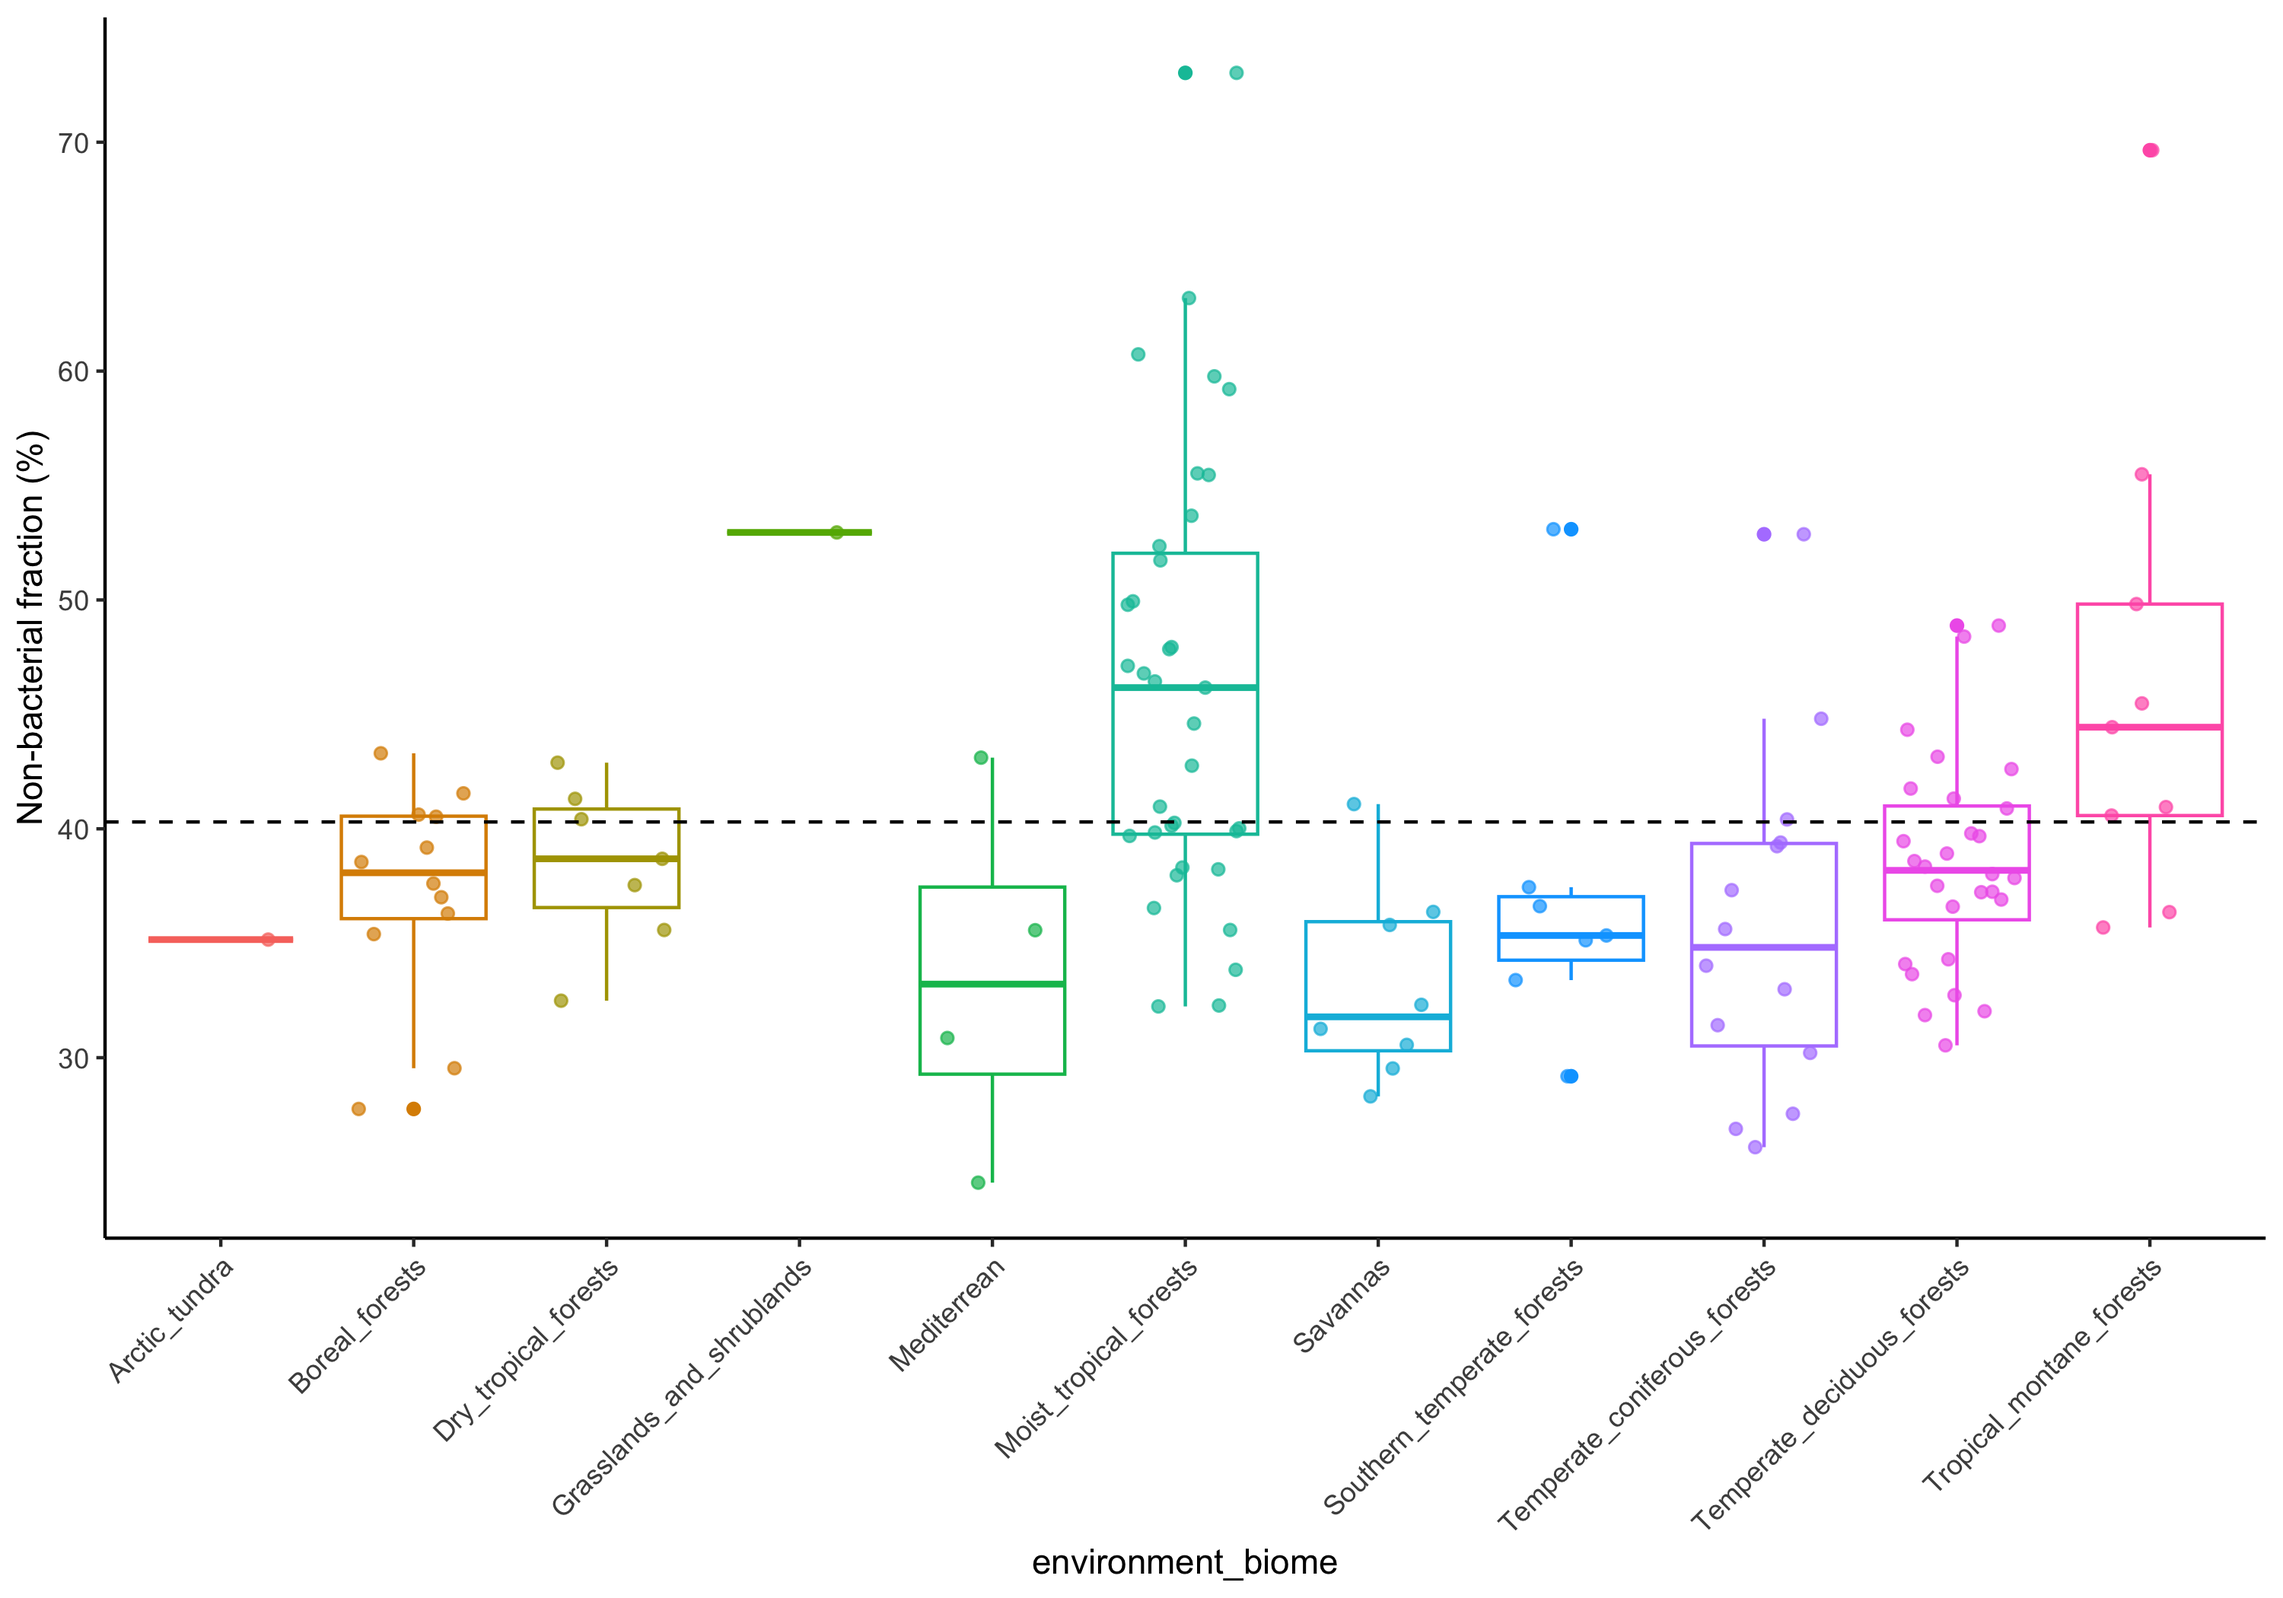
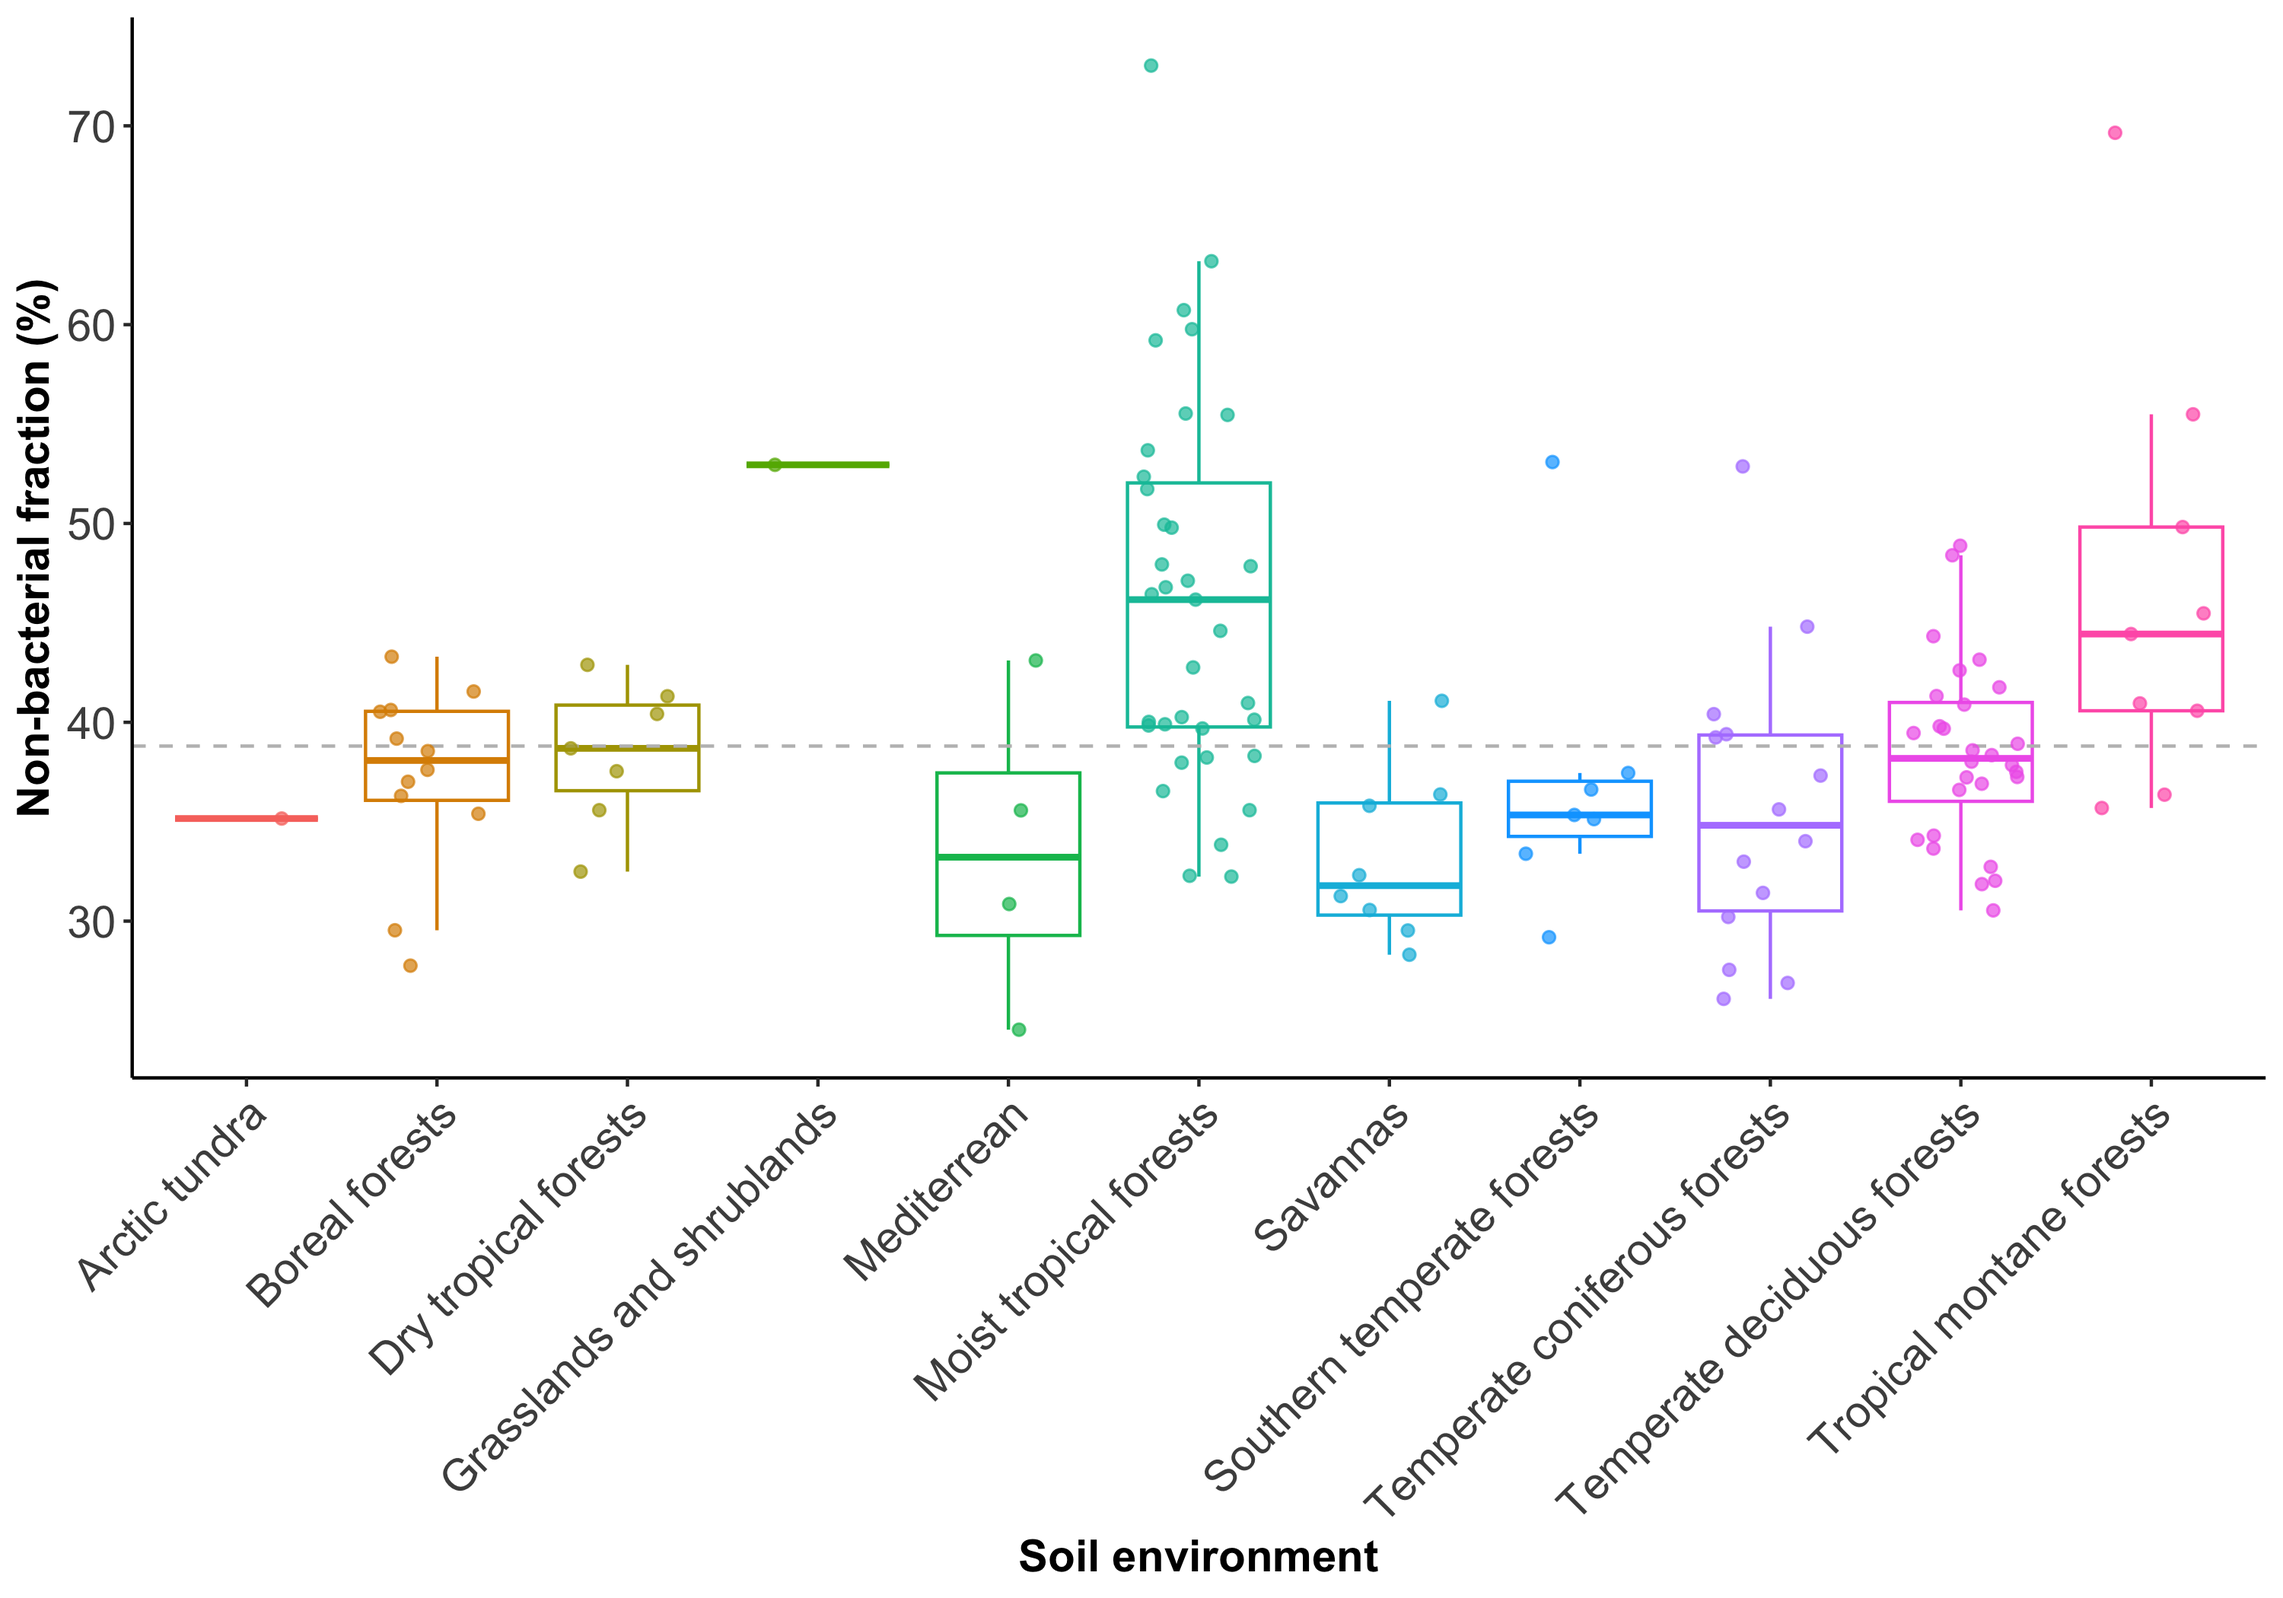
update, clean

diff --git a/code.md b/code.md
@@ -1,4 +1,4 @@
-# Re-analysis of soil replies with SMF values
+# 2024 reply to Osmund et al. and Piton et al.
 Raphael Eisenhofer
 
 ### Import and clean data
@@ -6,6 +6,7 @@ Raphael Eisenhofer
 ``` r
 library(tidyverse)
 library(janitor)
+library(patchwork)
 
 pooled_smf <- read_delim("data/smf.csv")
 md <- read_delim("data/metadata.tsv") %>%
@@ -46,25 +47,36 @@ Let’s now use our SMF (**S**ingleM **M**icrobial **F**raction) estimates
 to check how much non-bacterial DNA there is in these samples:
 
 ``` r
-df %>%
+set.seed(1337)
+
+fig1a <- df %>%
+  mutate(environment_biome = str_replace_all(environment_biome,
+                                             "_", " ")) %>%
   ggplot(aes(x = environment_biome, y = (100 - read_fraction), 
              colour = environment_biome)) +
-  geom_boxplot() +
+  geom_boxplot(outlier.alpha = 0) +
+  geom_hline(yintercept = (100 - median(df$read_fraction)),
+             linetype = 2, colour = "grey") +
   geom_jitter(height = 0, width = 0.3, alpha = 0.7) +
-  geom_hline(yintercept = (100 - mean(df$read_fraction)),
-             linetype = 2) +
   theme_classic() +
   theme(
     legend.position = "none",
-    axis.text.x = element_text(angle = 45, hjust = 1)
+    axis.text.x = element_text(size = 14,
+                               angle = 45, 
+                               hjust = 1),
+    axis.text.y = element_text(size = 14),
+    axis.title = element_text(size = 14, face = "bold")
         ) +
-  ylab("Non-bacterial fraction (%)")
+  ylab("Non-bacterial fraction (%)") +
+  xlab("Soil environment")
+  
+fig1a
 ```
 
 ![](code_files/figure-commonmark/unnamed-chunk-2-1.png)
 
 OK, so the assertion that 4-9% of the base pairs are eukaryotic is a
-severe underestimate! 10.1- to 4.5 -fold understimations to be precise.
+severe underestimate! 9.7- to 4.3 -fold understimations to be precise.
 
 It’s also interesting that we do see variation in non-bacterial read
 fractions between soil environmental biomes.
@@ -105,10 +117,11 @@ Let’s see where SMF’s AGS estimates lie between Piton et al. and Osmund
 et al.s’:
 
 ``` r
-SMF_AGS <- as.numeric(scales::number(mean(df$average_bacterial_archaeal_genome_size) / 1000000, accuracy = 0.1))
+SMF_AGS <- as.numeric(scales::number(mean(df$average_bacterial_archaeal_genome_size) / 1000000, accuracy = 0.1))  
 
-AGS_overestimate_fold <- as.numeric(scales::number(6.8 / SMF_AGS, accuracy = 0.01))
-AGS_overestimate_pc <- (1 - as.numeric(scales::number(SMF_AGS / 6.8, accuracy = 0.001))) * 100
+AGS_overestimate_fold <- as.numeric(scales::number(6.8 / SMF_AGS, accuracy = 0.01)) 
+
+AGS_overestimate_pc <- (1 - as.numeric(scales::number(SMF_AGS / 6.8, accuracy = 0.001))) * 100 
 ```
 
 So SMF’s AGS estimate 4.7 Mbp is between Osmund et al.’s 3 Mbp and Piton
@@ -127,12 +140,62 @@ point:
 > non-bacterial DNA.”
 
 ``` r
-df %>%
-  ggplot(aes(x = soilp_h, y = average_bacterial_archaeal_genome_size / 1000000)) +
-  geom_smooth(method = "lm") +
+#First, recrete with Piton et al.'s original AGS values
+
+# lm_piton <- lm(average_genome_size_bp ~ soilp_h, df)
+# shapiro.test(residuals(lm_piton))
+# 
+# summary(lm_piton)
+
+
+glm_piton <- glm(average_genome_size_bp ~ soilp_h, 
+                 df, family = Gamma)
+
+summary(glm_piton)
+```
+
+
+    Call:
+    glm(formula = average_genome_size_bp ~ soilp_h, family = Gamma, 
+        data = df)
+
+    Coefficients:
+                 Estimate Std. Error t value Pr(>|t|)    
+    (Intercept) 1.018e-07  5.709e-09  17.824  < 2e-16 ***
+    soilp_h     7.724e-09  1.046e-09   7.381 1.98e-11 ***
+    ---
+    Signif. codes:  0 '***' 0.001 '**' 0.01 '*' 0.05 '.' 0.1 ' ' 1
+
+    (Dispersion parameter for Gamma family taken to be 0.01335263)
+
+        Null deviance: 2.2440  on 125  degrees of freedom
+    Residual deviance: 1.5254  on 124  degrees of freedom
+    AIC: 3776.5
+
+    Number of Fisher Scoring iterations: 4
+
+``` r
+#R squared
+r_piton <- paste0("~italic(R^2)", " == ", scales::number(with(summary(glm_piton), 1 - deviance/null.deviance), accuracy = 0.0001))
+
+
+fig1b <- df %>%
+  ggplot(aes(x = soilp_h, y = average_genome_size_bp / 1e6)) +
+  geom_smooth(method = "glm") +
   geom_point(aes(colour = environment_biome)) +
+  annotate("text", x = 3.5, y = 5.5, label = r_piton, 
+           parse = TRUE, size = 6) +
   theme_classic() +
-  labs(x = "Soil pH", y = "SingleM Average Genome Size (Mbp)")
+  theme(
+    legend.position = "none",
+    axis.text = element_text(size = 14),
+    axis.title = element_text(size = 14, face = "bold")
+        ) +
+  labs(x = "Soil pH", y = "Piton et al. Average Genome Size (Mbp)")
+
+
+
+fig1b
 ```
 
     `geom_smooth()` using formula = 'y ~ x'
@@ -140,8 +203,234 @@ df %>%
 ![](code_files/figure-commonmark/unnamed-chunk-4-1.png)
 
 ``` r
-correlation <- cor(df$average_bacterial_archaeal_genome_size, df$soilp_h)
+#Now with corrected AGS values
+
+glm_smf <- glm(average_bacterial_archaeal_genome_size ~ soilp_h, 
+               df, family = Gamma)
+
+r_smf <- paste0("~italic(R^2)", " == ", scales::number(with(summary(glm_smf), 1 - deviance/null.deviance), accuracy = 0.0001))
+
+fig1c <- df %>%
+  ggplot(aes(x = soilp_h, 
+             y = average_bacterial_archaeal_genome_size / 1e6)) +
+  geom_smooth(method = "glm") +
+  geom_point(aes(colour = environment_biome)) +
+  annotate("text", x = 3.5, y = 4, label = r_smf, 
+           parse = TRUE, size = 6) +
+  theme_classic() +
+  theme(
+    legend.position = "none",
+    axis.text = element_text(size = 14),
+    axis.title = element_text(size = 14, face = "bold")
+        ) +
+  labs(x = "Soil pH", y = "SingleM Average Genome Size (Mbp)")
+
+fig1c
 ```
 
-Despite their inaccurate AGS estimates, we still see a strong negative
-correlation as observed by Piton et al. Correlation = -0.7633485.
+    `geom_smooth()` using formula = 'y ~ x'
+
+![](code_files/figure-commonmark/unnamed-chunk-5-1.png)
+
+Despite their inaccurate AGS estimates, we actually observe a stronger
+relationship between AGS and soil pH: ~italic(R^2) == 0.5724, compared
+to Piton et al. ~italic(R^2) == 0.3202.
+
+### Export figure for paper (Figure 1)
+
+``` r
+fig1 <- fig1a / (fig1b + fig1c) + plot_annotation(tag_levels = 'A')  
+
+ggsave("figures/figure_1.png", fig1, width = 9, height = 12)
+```
+
+    `geom_smooth()` using formula = 'y ~ x'
+    `geom_smooth()` using formula = 'y ~ x'
+
+### AGS vs soil pH by biome (Supplementary Figure 1)
+
+``` r
+set.seed(1337)
+
+df %>%
+  mutate(environment_biome = str_replace_all(environment_biome,
+                                             "_", " ")) %>%
+  filter(environment_biome != "Arctic tundra" & environment_biome != "Grasslands and shrublands") %>%
+  ggplot(aes(x = soilp_h, 
+             y = average_bacterial_archaeal_genome_size / 1e6, 
+             colour = environment_biome)) +
+  geom_point(size = 3) +
+  facet_wrap(~environment_biome) +
+  geom_smooth(method = "glm") +
+  theme_classic() +
+  theme(
+    legend.position = "none",
+    axis.text.x = element_text(size = 14),
+    axis.text.y = element_text(size = 14),
+    axis.title = element_text(size = 14, face = "bold")
+        ) +
+  ylab("Average Genome Size (Mbp)") +
+  xlab("Soil pH")
+```
+
+![](code_files/figure-commonmark/unnamed-chunk-7-1.png)
+
+### Validation with an independent dataset (Supplementary Figure 2)
+
+Piton et al. cite an [independent study](u) of soil metagenomes that
+also found the same relationship between AGS and soil pH. Let’s see if
+we also observe this trend.
+
+``` r
+wang <- read_delim("data/ben/ncomms_paper/ncomms_collected.csv")
+```
+
+    Rows: 36 Columns: 14
+    ── Column specification ────────────────────────────────────────────────────────
+    Delimiter: ","
+    chr (4): Run, sample.name, sample, site.latitude
+    dbl (9): bacterial_archaeal_bases, metagenome_size, read_fraction, average_b...
+    lgl (1): warning
+
+    ℹ Use `spec()` to retrieve the full column specification for this data.
+    ℹ Specify the column types or set `show_col_types = FALSE` to quiet this message.
+
+``` r
+glm_wang <- glm(average_bacterial_archaeal_genome_size~ pH, 
+                wang, family = Gamma)
+
+summary(glm_wang)
+```
+
+
+    Call:
+    glm(formula = average_bacterial_archaeal_genome_size ~ pH, family = Gamma, 
+        data = wang)
+
+    Coefficients:
+                 Estimate Std. Error t value Pr(>|t|)    
+    (Intercept) 1.752e-07  5.979e-09  29.303  < 2e-16 ***
+    pH          7.551e-09  1.210e-09   6.242 4.18e-07 ***
+    ---
+    Signif. codes:  0 '***' 0.001 '**' 0.01 '*' 0.05 '.' 0.1 ' ' 1
+
+    (Dispersion parameter for Gamma family taken to be 0.001157308)
+
+        Null deviance: 0.085232  on 35  degrees of freedom
+    Residual deviance: 0.039343  on 34  degrees of freedom
+    AIC: 968.99
+
+    Number of Fisher Scoring iterations: 3
+
+``` r
+#R squared
+r_wang <- paste0("~italic(R^2)", " == ", scales::number(with(summary(glm_wang), 1 - deviance/null.deviance), accuracy = 0.0001))
+
+
+wang %>%
+  ggplot(aes(x = pH, y = average_bacterial_archaeal_genome_size / 1e6)) +
+  geom_smooth(method = "glm") +
+  geom_point(aes(colour = site.latitude), size = 5) +
+  annotate("text", x = 4, y = 4.3, label = r_wang, 
+           parse = TRUE, size = 6) +
+  theme_classic() +
+  theme(
+    legend.position = "right",
+    axis.text = element_text(size = 14),
+    axis.title = element_text(size = 14, face = "bold")
+        ) +
+  labs(x = "Soil pH", y = "SMF Average Genome Size (Mbp)")
+```
+
+    `geom_smooth()` using formula = 'y ~ x'
+
+![](code_files/figure-commonmark/unnamed-chunk-8-1.png)
+
+### Supplemental analyses
+
+``` r
+df %>% 
+  ggplot(aes(x = soilp_h, y = read_fraction)) + 
+  geom_smooth(method = "glm") +
+  geom_point(aes(colour = environment_biome), size = 3) +
+  theme_classic() +
+  theme(
+    legend.position = "top",
+    legend.title = element_blank(),
+    axis.text = element_text(size = 14),
+    axis.title = element_text(size = 14, face = "bold")
+        ) +
+  labs(x = "Soil pH", y = "SingleM Microbial Fraction (%)")
+```
+
+    `geom_smooth()` using formula = 'y ~ x'
+
+![](code_files/figure-commonmark/unnamed-chunk-9-1.png)
+
+``` r
+df %>% 
+  ggplot(aes(x = mean_annual_temperature_c, y = read_fraction)) + 
+  geom_smooth(method = "glm") +
+  geom_point(aes(colour = environment_biome), size = 3) +
+  theme_classic() +
+  theme(
+    legend.position = "top",
+    legend.title = element_blank(),
+    axis.text = element_text(size = 14),
+    axis.title = element_text(size = 14, face = "bold")
+        ) +
+  labs(x = "Mean annual temp (C)", y = "SingleM Microbial Fraction (%)")
+```
+
+    `geom_smooth()` using formula = 'y ~ x'
+
+![](code_files/figure-commonmark/unnamed-chunk-9-2.png)
+
+``` r
+df %>% 
+  ggplot(aes(x = annual_precipitation_mm, y = read_fraction)) + 
+  geom_smooth(method = "glm") +
+  geom_point(aes(colour = environment_biome), size = 3) +
+  theme_classic() +
+  theme(
+    legend.position = "top",
+    legend.title = element_blank(),
+    axis.text = element_text(size = 14),
+    axis.title = element_text(size = 14, face = "bold")
+        ) +
+  labs(x = "Annual precipitation (mm)", y = "SingleM Microbial Fraction (%)")
+```
+
+    `geom_smooth()` using formula = 'y ~ x'
+
+![](code_files/figure-commonmark/unnamed-chunk-9-3.png)
+
+``` r
+df %>% 
+  ggplot(aes(x = mapping_coverage_kegg, y = read_fraction)) + 
+  geom_smooth(method = "glm") +
+  geom_point(aes(colour = environment_biome), size = 3) +
+  theme_classic() +
+  theme(
+    legend.position = "top",
+    legend.title = element_blank(),
+    axis.text = element_text(size = 14),
+    axis.title = element_text(size = 14, face = "bold")
+        ) +
+  labs(x = "Mean mapping coverage KEGG", y = "SingleM Microbial Fraction (%)")
+```
+
+    `geom_smooth()` using formula = 'y ~ x'
+
+![](code_files/figure-commonmark/unnamed-chunk-9-4.png)
+
+### Report package/software versions reproducibility
+
+``` r
+installed.packages()[names(sessionInfo()$otherPkgs), "Version"]
+```
+
+    patchwork   janitor lubridate   forcats   stringr     dplyr     purrr     readr 
+      "1.2.0"   "2.2.0"   "1.9.3"   "1.0.0"   "1.5.1"   "1.1.4"   "1.0.2"   "2.1.5" 
+        tidyr    tibble   ggplot2 tidyverse 
+      "1.3.1"   "3.2.1"   "3.4.4"   "2.0.0" 
